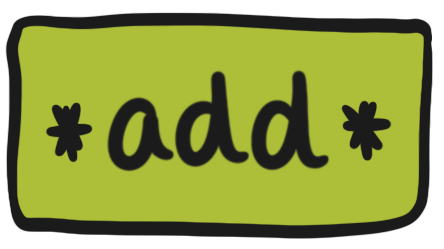
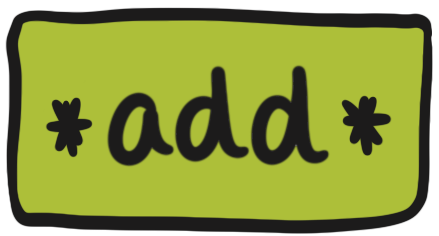
fixing sizing

diff --git a/src/Game.jsx b/src/Game.jsx
@@ -708,12 +708,13 @@ export default function Game() {
                     maxLength={18}
                     autoFocus
                     style={{
-                      flex: 1,
+                      width: window.innerWidth < 768 ? 70 : 100,
                       minWidth: 0,
                       border: "2px solid #1f1f1f",
                       borderRadius: 6,
-                      padding: "10px 12px",
+                      padding: "4px 10px",
                       fontSize: 16,
+                      lineHeight: 1.1,
                     }}
                   />
                   <button